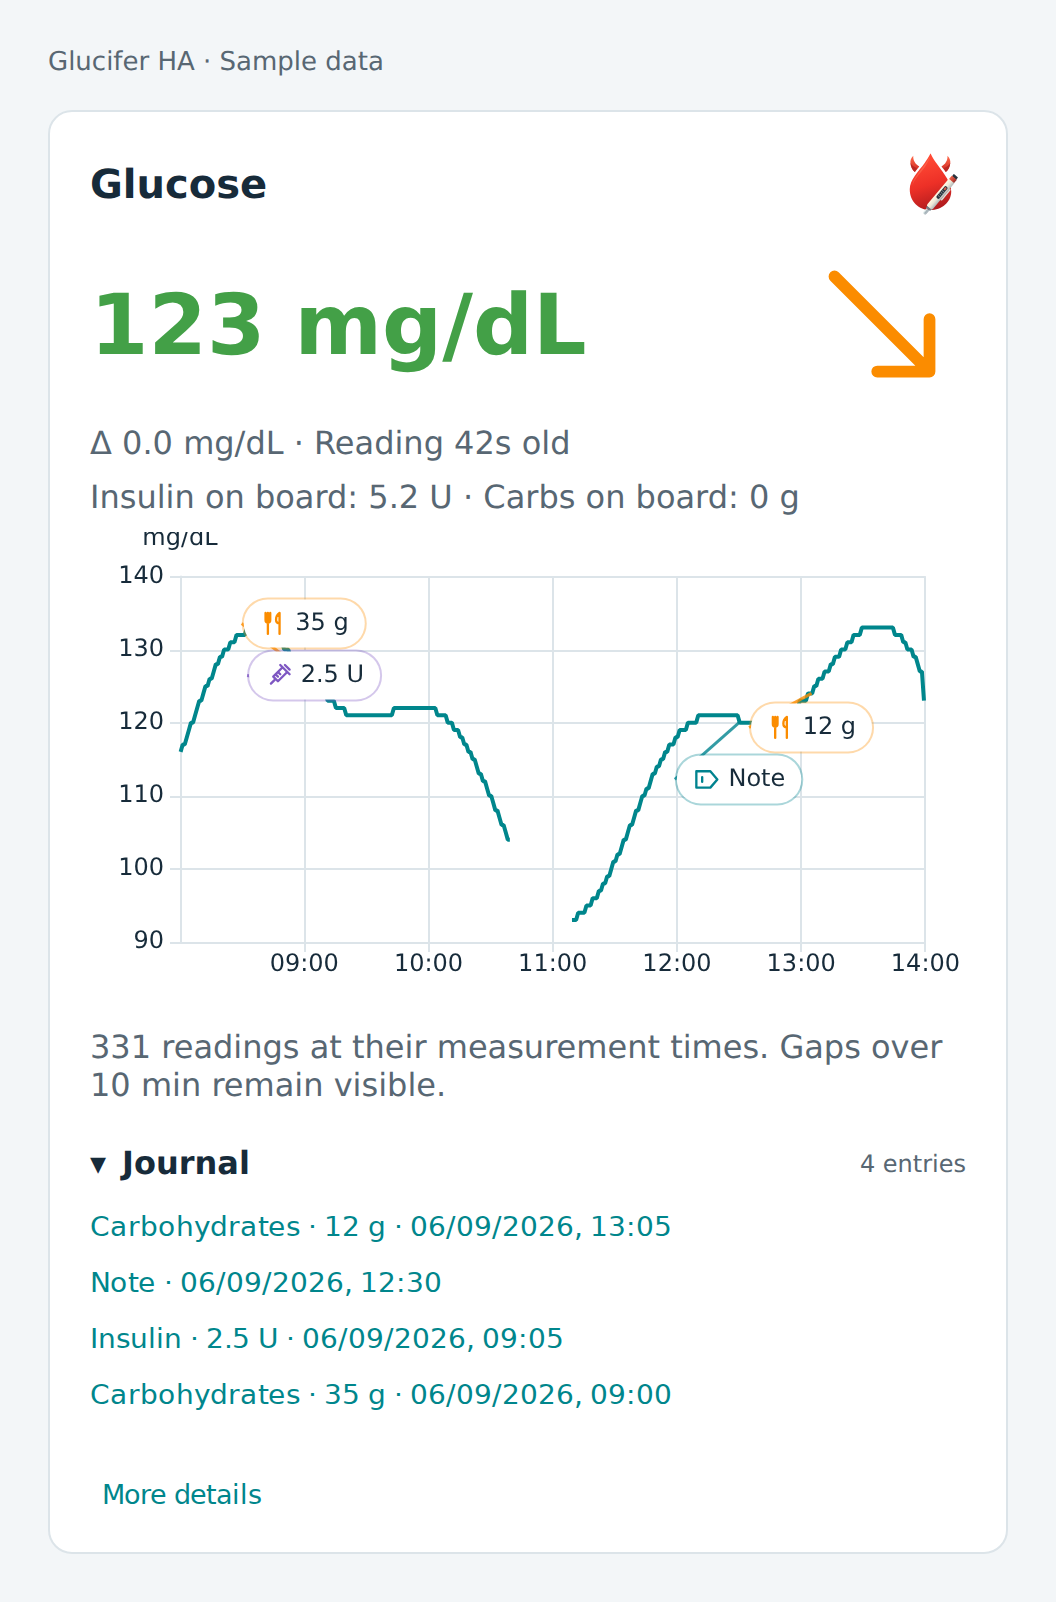
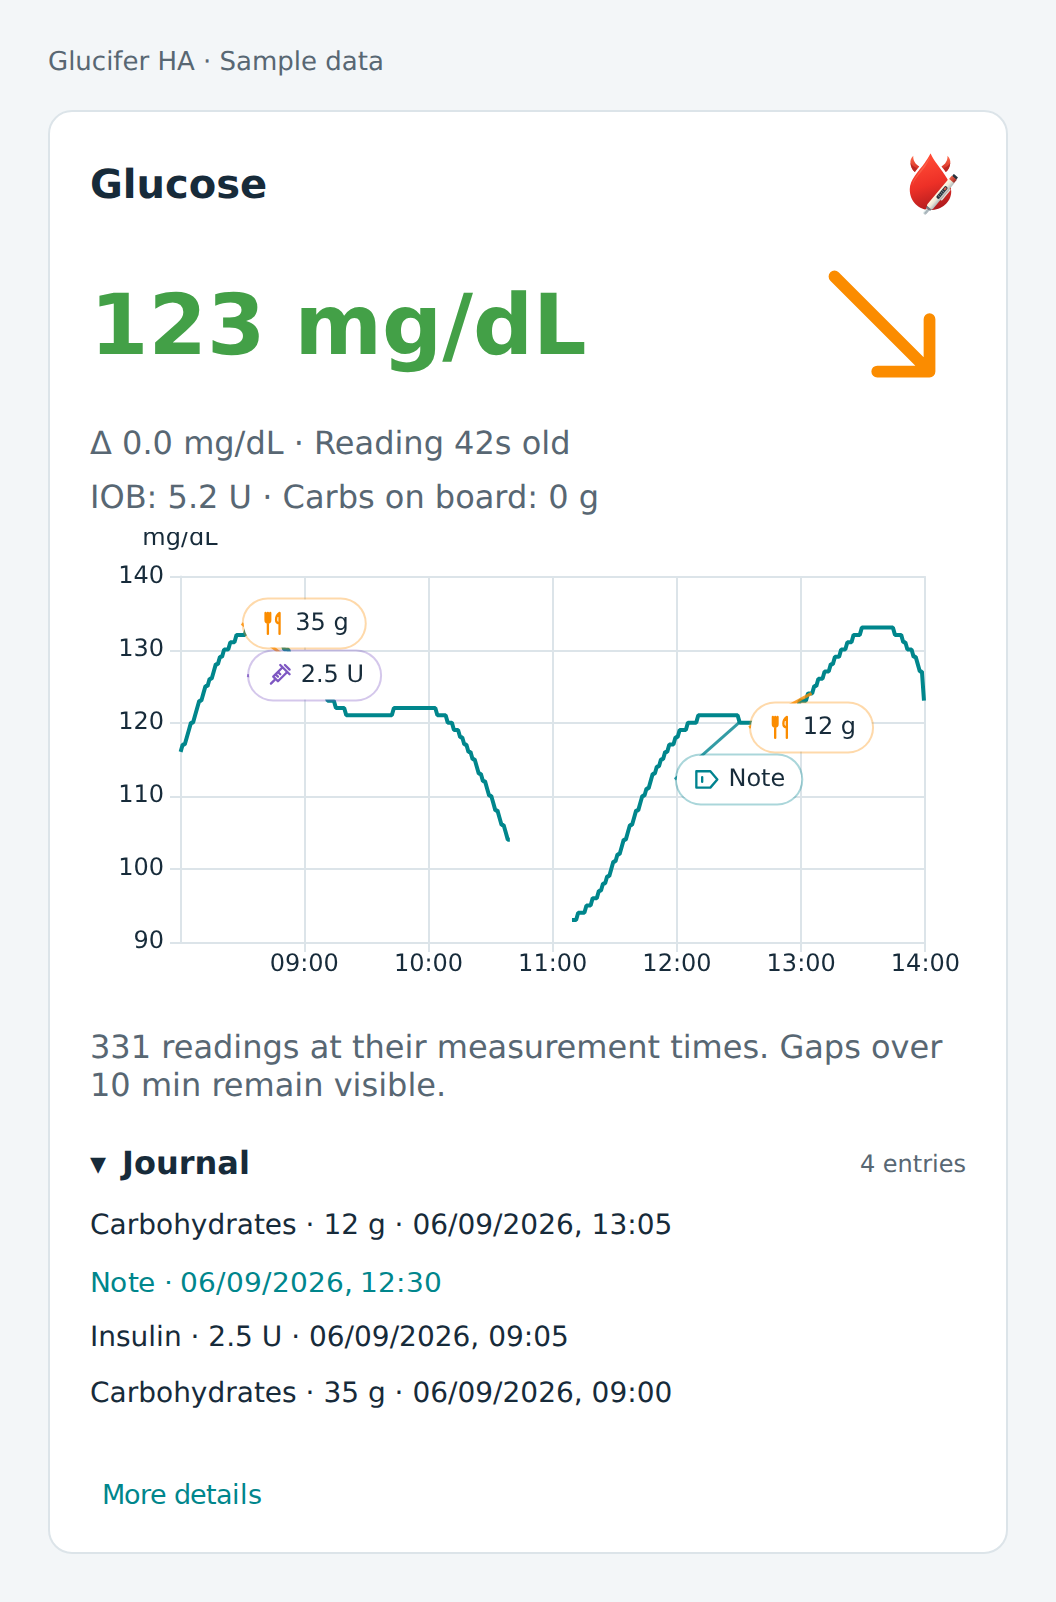
Remove redundant insulin labels and empty journal details

diff --git a/custom_components/glucifer/frontend/glucifer-card.js b/custom_components/glucifer/frontend/glucifer-card.js
@@ -37,7 +37,6 @@ const GLUCIFER_DE = {
   "Unavailable": "Nicht verfügbar",
   "Yes": "Ja",
   "No": "Nein",
-  "Active": "Aktiv",
   "U": "E",
   "Insulin": "Insulin",
   "Carbohydrates": "Kohlenhydrate",
@@ -443,12 +442,13 @@ class GluciferCard extends HTMLElement {
       ul {padding-left:20px} button {margin-top:12px;border:0;background:none;color:var(--primary-color);cursor:pointer}
       .journal-marker {stroke:var(--card-background-color,#fff);stroke-width:1.5;cursor:pointer}
       .journal-marker:focus {outline:none;stroke:var(--primary-text-color);stroke-width:3}
-      .journal-list {display:grid;gap:6px} .journal-list button {text-align:left;margin:0;padding:8px;border:1px solid var(--divider-color);border-radius:6px}
+      .journal-list {display:grid;gap:6px} .journal-list button, .journal-entry-label {box-sizing:border-box;display:block;font-size:14px;line-height:20px;text-align:left;margin:0;padding:8px;border:1px solid var(--divider-color);border-radius:6px}
       .journal-section {margin-top:12px} .journal-section summary {display:flex;align-items:center;gap:8px;cursor:pointer;list-style:none;font-weight:600;padding:8px 0}
       .journal-section summary::-webkit-details-marker {display:none} .journal-section summary::before {content:"▸"} .journal-section[open] summary::before {content:"▾"}
       .journal-summary-count {margin-left:auto;font-size:12px;font-weight:400;color:var(--secondary-text-color)}
       .journal-section.compact .journal-count {display:none} .journal-section.compact .journal-list {gap:0}
-      .journal-section.compact .journal-list button {border:0;border-radius:0;padding:4px 0;min-height:28px;font-size:14px;line-height:20px}
+      .journal-section.compact .journal-list button, .journal-section.compact .journal-entry-label {border:0;border-radius:0;padding:4px 0;min-height:28px;font-size:14px;line-height:20px}
+      .journal-entry.selected > .journal-entry-label {background:var(--secondary-background-color);border-radius:4px}
       .journal-selection {padding:12px;border:1px solid var(--divider-color);border-radius:8px;white-space:pre-wrap}
       .journal-entry .journal-selection {padding:8px 0 8px 12px;margin:2px 0 6px;border:0;border-left:2px solid var(--divider-color);border-radius:0}
       .journal-selection button {margin:8px 0 0;padding:0;border:0}
@@ -567,10 +567,10 @@ class GluciferCard extends HTMLElement {
       if (key === "sensor_warmup") return this.t(s.state === "on" ? "Yes" : "No");
       const numeric = !GLUCIFER_SENSOR_FIELDS.includes(key) && Number.isFinite(Number(s.state));
       const value = `${numeric ? this.formatNumber(Number(s.state), 1, s.state.includes(".") ? 1 : 0) : s.state}${s.attributes.unit_of_measurement ? ` ${["iob_u", "eiob_u"].includes(key) ? this.t("U") : s.attributes.unit_of_measurement}` : ""}`;
-      return key === "iob_u" && available("eiob_u") ? `${value} (${this.t("Active")}: ${formatted("eiob_u")})` : value;
+      return key === "iob_u" && available("eiob_u") ? `${value} (eIOB: ${formatted("eiob_u")})` : value;
     };
     for (const [selector, keys] of [[".lifecycle", GLUCIFER_SENSOR_FIELDS], [".optional-values", ["rate_mgdl_min", "raw_mgdl", "auto_mgdl", "iob_u", ...(!available("iob_u") ? ["eiob_u"] : []), "cob_g", "battery_percent"]]]) {
-      text(selector, keys.filter(available).map(key => `${this.t(GLUCIFER_FIELDS[key])}: ${formatted(key)}`).join(" · "));
+      text(selector, keys.filter(available).map(key => `${key === "iob_u" ? "IOB" : key === "eiob_u" ? "eIOB" : this.t(GLUCIFER_FIELDS[key])}: ${formatted(key)}`).join(" · "));
       root.querySelector(selector).hidden = !root.querySelector(selector).textContent;
     }
     this.fitReading();
@@ -621,8 +621,11 @@ class GluciferCard extends HTMLElement {
         : this.t("Enable journal sync in JugglucoNG to display entries.");
       for (const entry of visible) {
         const row = document.createElement("div"); row.className = "journal-entry"; row.dataset.journalId = entry.id;
-        const button = document.createElement("button"); button.className = "journal-entry-toggle";
-        button.textContent = description(entry); button.onclick = () => select(entry);
+        const expandable = Boolean(this.journalNote(entry));
+        const button = document.createElement(expandable ? "button" : "span");
+        button.className = `journal-entry-label${expandable ? " journal-entry-toggle" : ""}`;
+        button.textContent = description(entry);
+        if (expandable) button.onclick = () => select(entry);
         row.append(button); root.querySelector(".journal-list").append(row);
       }
     }
@@ -778,10 +781,15 @@ class GluciferCard extends HTMLElement {
     const row = entry && this.config.show_journal && section.open && rows.find(row => row.dataset.journalId === entry.id);
     if (row) { if (panel.parentElement !== row) row.append(panel); }
     else if (panel.parentElement !== section.parentElement) section.before(panel);
-    for (const item of rows) item.querySelector(".journal-entry-toggle").setAttribute("aria-expanded", String(item === row));
-    panel.hidden = !entry;
-    root.querySelector(".selection-label").textContent = entry ? this.journalDescription(entry) : "";
-    root.querySelector(".selection-note").textContent = entry?.note || "";
+    for (const item of rows) {
+      item.classList.toggle("selected", item === row);
+      item.querySelector(".journal-entry-toggle")?.setAttribute("aria-expanded", String(item === row));
+    }
+    const note = entry ? this.journalNote(entry) : "";
+    panel.hidden = !entry || Boolean(row && !note);
+    // The inline row already contains the name, amount and time.
+    root.querySelector(".selection-label").textContent = entry && !row ? this.journalDescription(entry) : "";
+    root.querySelector(".selection-note").textContent = note;
     root.querySelector(".journal-selection button").onclick = () => { this.selectedJournalId = null; this.renderSelection(); };
   }
   updateAge() {
@@ -826,6 +834,10 @@ class GluciferCard extends HTMLElement {
     glucose.style.fontSize = `${fit}px`;
   }
   t(text, values) { return gluciferText(this.config?.locale || this._hass?.locale?.language, text, values); }
+  journalNote(entry) {
+    const note = entry.note?.trim() || "";
+    return note === (entry.label || "").trim() || note === this.journalLabel(entry).trim() ? "" : note;
+  }
   journalLabel(entry) {
     const fallback = ({insulin:"Insulin",carbs:"Carbohydrates",note:"Note"})[entry.kind] || entry.kind;
     // Only translate generic protocol labels; custom names and note text are user data.

diff --git a/README.md b/README.md
@@ -1,6 +1,6 @@
 # Glucifer for Home Assistant
 
-<img src="https://raw.githubusercontent.com/pannal/glucifer-ha/main/docs/brand/banner.png?v=0.6.0" alt="Glucifer HA: horned glucose drop and insulin pen beside the Home Assistant icon and Glucifer HA lettering" width="100%">
+<img src="https://raw.githubusercontent.com/pannal/glucifer-ha/main/docs/brand/banner.png?v=journal-notes" alt="Glucifer HA: horned glucose drop and insulin pen beside the Home Assistant icon and Glucifer HA lettering" width="100%">
 
 Bring [JugglucoNG](https://github.com/ctqvva/JugglucoNG) glucose readings into
 Home Assistant through a private webhook. Includes mg/dL and mmol/L,
@@ -66,34 +66,34 @@ and dark themes. These are card previews, not captures from a live HA installati
 
 | mg/dL with journal markers and history | mmol/L with journal markers and history |
 | --- | --- |
-| <img src="https://raw.githubusercontent.com/pannal/glucifer-ha/main/docs/screenshots/dashboard-mgdl-interactive.png?v=0.6.0" alt="Glucifer card displaying 123 mg/dL, a colored trend arrow, insulin and carbohydrate chart markers, and a journal history list" width="400"> | <img src="https://raw.githubusercontent.com/pannal/glucifer-ha/main/docs/screenshots/dashboard-mmol-interactive.png?v=0.6.0" alt="Glucifer card in dark mode displaying 6.8 mmol/L, a colored trend arrow, journal markers, and a journal history list" width="400"> |
+| <img src="https://raw.githubusercontent.com/pannal/glucifer-ha/main/docs/screenshots/dashboard-mgdl-interactive.png?v=journal-notes" alt="Glucifer card displaying 123 mg/dL, a colored trend arrow, insulin and carbohydrate chart markers, and a journal history list" width="400"> | <img src="https://raw.githubusercontent.com/pannal/glucifer-ha/main/docs/screenshots/dashboard-mmol-interactive.png?v=journal-notes" alt="Glucifer card in dark mode displaying 6.8 mmol/L, a colored trend arrow, journal markers, and a journal history list" width="400"> |
 
 <details>
 <summary><strong>More card layouts</strong></summary>
 
 | Centered value, hidden unit and active insulin | Expanded journal, optional markers and hidden logo |
 | --- | --- |
-| <img src="https://raw.githubusercontent.com/pannal/glucifer-ha/main/docs/screenshots/dashboard-centered-active-insulin.png?v=0.6.0" alt="Dark card with a centered 6.8 glucose value and Insulin on board: 5.2 U (Active: 1.7 U)" width="400"> | <img src="https://raw.githubusercontent.com/pannal/glucifer-ha/main/docs/screenshots/dashboard-expanded-journal.png?v=0.6.0" alt="Light card with a larger 123 mg/dL value, optional chart markers and padded journal rows" width="400"> |
+| <img src="https://raw.githubusercontent.com/pannal/glucifer-ha/main/docs/screenshots/dashboard-centered-active-insulin.png?v=journal-notes" alt="Dark card with a centered 6.8 glucose value and IOB: 5.2 U (eIOB: 1.7 U)" width="400"> | <img src="https://raw.githubusercontent.com/pannal/glucifer-ha/main/docs/screenshots/dashboard-expanded-journal.png?v=journal-notes" alt="Light card with a larger 123 mg/dL value, optional chart markers and padded journal rows" width="400"> |
 
 **Arrow position: lower, beside delta and IOB** keeps the arrow on the right
 while giving the glucose value its own row.
 
-<img src="https://raw.githubusercontent.com/pannal/glucifer-ha/main/docs/screenshots/dashboard-lower-arrow.png?v=0.6.0" alt="Centered glucose above the delta and active insulin details, with the trend arrow at the right of the details" width="400">
+<img src="https://raw.githubusercontent.com/pannal/glucifer-ha/main/docs/screenshots/dashboard-lower-arrow.png?v=journal-notes" alt="Centered glucose above the delta and active insulin details, with the trend arrow at the right of the details" width="400">
 
 **Optional predictions**: dashed NG projection curves extend into the future.
 Enable prediction export in NG and **Show prediction curves** in the card editor.
 Both are off by default. [Setup and behavior](docs/guide.md#prediction-curves)
 
-<img src="https://raw.githubusercontent.com/pannal/glucifer-ha/main/docs/screenshots/dashboard-predictions.png?v=0.6.0" alt="Glucose card with optional dashed raw and auto prediction curves extending beyond the measured history" width="400">
+<img src="https://raw.githubusercontent.com/pannal/glucifer-ha/main/docs/screenshots/dashboard-predictions.png?v=journal-notes" alt="Glucose card with optional dashed raw and auto prediction curves extending beyond the measured history" width="400">
 
 **Typography and locale**: an italic Georgia value, a longer, thinner arrow,
 and German labels, dates and numbers, including `E` for insulin units. Fonts come from the browser.
 
-<img src="https://raw.githubusercontent.com/pannal/glucifer-ha/main/docs/screenshots/dashboard-typography-locale.png?v=0.6.0" alt="Dark card showing a large italic 6,8 glucose value, a longer thin arrow beside details, and German labels with E for insulin units" width="400">
+<img src="https://raw.githubusercontent.com/pannal/glucifer-ha/main/docs/screenshots/dashboard-typography-locale.png?v=journal-notes" alt="Dark card showing a large italic 6,8 glucose value, a longer thin arrow beside details, and German labels with E for insulin units" width="400">
 
-**Inline journal details**: selecting a row expands it directly in the list.
+**Inline journal details**: rows with an additional note expand directly in the list.
 
-<img src="https://raw.githubusercontent.com/pannal/glucifer-ha/main/docs/screenshots/dashboard-inline-journal.png?v=0.6.0" alt="German Glucifer card with a Notiz entry expanded in place in the Tagebuch list" width="400">
+<img src="https://raw.githubusercontent.com/pannal/glucifer-ha/main/docs/screenshots/dashboard-inline-journal.png?v=journal-notes" alt="German Glucifer card with a Notiz entry expanded in place in the Tagebuch list" width="400">
 
 These options are available in the card's visual editor.
 
@@ -135,7 +135,7 @@ Recent history is reused when HA recreates the preview during an edit.
 
 For eIOB, enable **Show effective IOB (eIOB)** in NG's Glucifer destination
 and **Active insulin (eIOB)** in the card editor. With IOB visible, the card
-shows `Insulin on board: 5.2 U (Active: 1.7 U)`. Both switches default to off;
+shows `IOB: 5.2 U (eIOB: 1.7 U)`. Both switches default to off;
 this requires the NG sender with eIOB support and Glucifer 0.5.0 or later.
 
 Imported readings appear in this card; they do not rewrite HA Recorder history.
@@ -154,10 +154,11 @@ for a glucose reading. **Include notes and note entries** is a separate opt-in.
 Choose how much history to send, from 1 to 90 days; the default is 7 days.
 
 The chart shows journal pills with colored icons, amounts and connector lines.
-Clicking a journal row expands its details in place. A chart click expands the
-matching visible row; the separate details area is used when the list is hidden,
-collapsed, or that entry is outside the displayed list. Click the entry again
-to close it. The drag cursor appears only when the chart is zoomed in.
+Rows with an additional note expand to show that note. Rows without extra
+details are plain text. A chart click highlights the matching visible row and
+opens its note, if present. The separate details area shows the full entry when
+the list is hidden, collapsed, or that entry is outside the displayed list.
+Click the chart pill again to clear the selection. The drag cursor appears only when the chart is zoomed in.
 **Show chart marker symbols and legend** adds the triangle/circle/square markers
 and their legend; it is off by default. Select a pill
 (or a marker when enabled) for details; select it again to close them. Hovering a journal

diff --git a/docs/guide.md b/docs/guide.md
@@ -266,10 +266,12 @@ drag to pan once zoomed, and use HA's reset control to restore the full window.
 The cursor is normal at the full range and becomes a grab cursor when zoomed. Touch
 screens support pinch zoom. Journal pills remain selectable while zoomed. Click an entry again to close
 its details. Hovering journal markers or chips suppresses the glucose tooltip.
-Selecting a journal row expands the details underneath it. Selecting a chart
-pill uses that same row when it is visible in the list; otherwise, the details
-appear in the separate panel. This covers a hidden or collapsed list and
-entries excluded by the list limit. Selecting the same entry again closes it.
+A journal row is expandable when it has an additional note. Its expanded area
+shows the note without repeating the name, amount or time. Rows without extra
+information are plain text. Selecting a chart pill highlights its visible row
+and opens the note, if present. When the row is hidden, collapsed or excluded
+by the list limit, the separate panel shows the full entry. Selecting the same
+chart pill again clears the selection.
 
 Colored pills show insulin units, carbohydrate grams, or the note label, with
 connector lines to their glucose anchors. Nearby pills are staggered; crowded
@@ -300,7 +302,7 @@ IDs. Refresh the browser after updating the integration's card.
 
 ### Active insulin (eIOB)
 
-With a compatible NG sender, select **Show effective IOB (eIOB)** in the Glucifer destination to send the optional `eiob_u` field. Enable **Active insulin (eIOB)** in the card editor to display it in parentheses beside IOB. If IOB is hidden, active insulin appears on its own. Missing values stay hidden; zero remains a valid value. Update HA to Glucifer 0.5.0 or later before enabling this sender field.
+With a compatible NG sender, select **Show effective IOB (eIOB)** in the Glucifer destination to send the optional `eiob_u` field. Enable **Active insulin (eIOB)** in the card editor to display `IOB: 5.2 U (eIOB: 1.7 U)`. If IOB is hidden, eIOB appears on its own. Missing values stay hidden; zero remains a valid value. Update HA to Glucifer 0.5.0 or later before enabling this sender field.
 
 ### YAML dashboard resources
 
